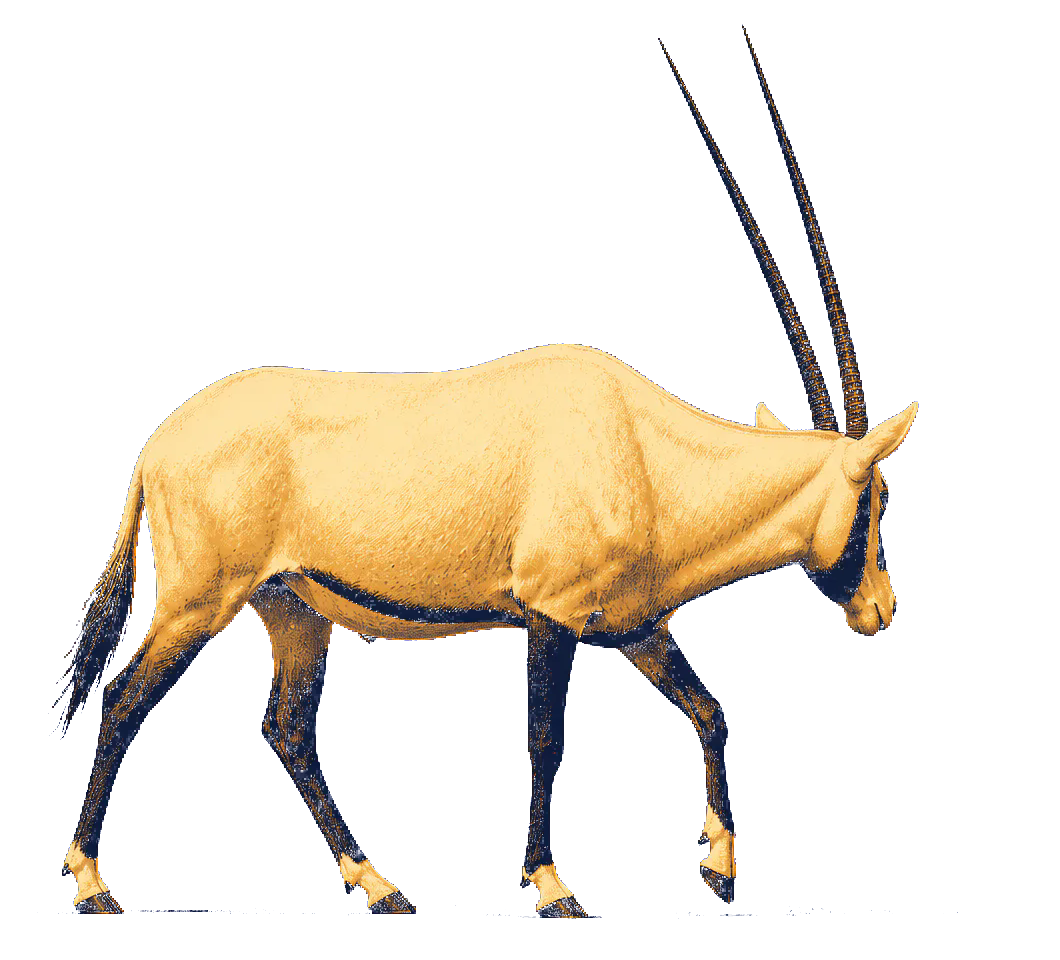
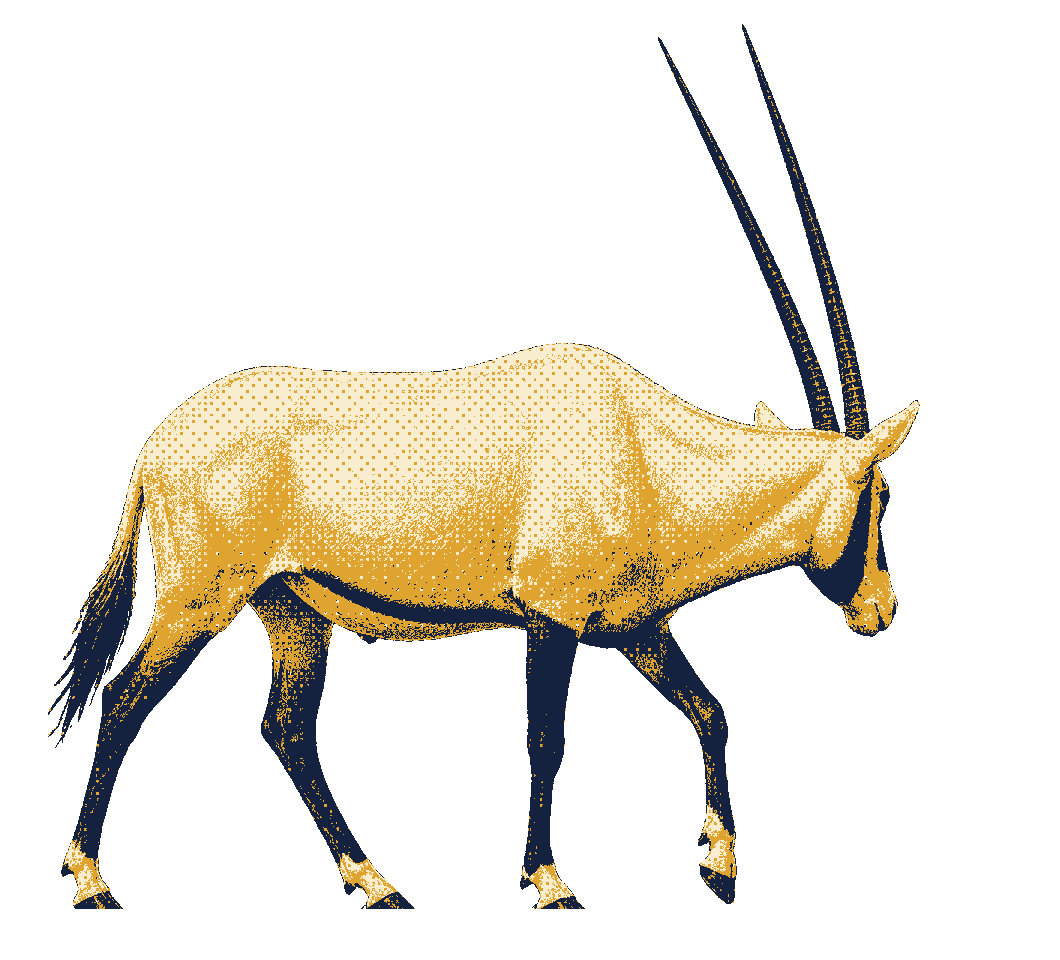
Clean cutouts and rotate dither styles

diff --git a/src/main.ts b/src/main.ts
@@ -70,6 +70,7 @@ let currentScene = Math.min(
 let switchTimer = 0;
 let pointerFrame = 0;
 let sceneRequest = 0;
+let sceneDeck: number[] = [];
 
 function rememberScene(index: number): void {
   try { sessionStorage.setItem("actual-scene", String(index)); } catch {}
@@ -119,18 +120,30 @@ function renderScene(index: number, initial = false): void {
   });
 }
 
-function randomScene(exclude: number): number {
-  const choices = scenes.map((_, index) => index).filter((index) => index !== exclude);
+function randomIndex(length: number): number {
   if (window.crypto?.getRandomValues) {
     const entropy = new Uint32Array(1);
     window.crypto.getRandomValues(entropy);
-    return choices[entropy[0] % choices.length];
+    return entropy[0] % length;
   }
-  return choices[Math.floor(Math.random() * choices.length)];
+  return Math.floor(Math.random() * length);
+}
+
+function refillSceneDeck(exclude: number): void {
+  sceneDeck = scenes.map((_, index) => index).filter((index) => index !== exclude);
+  for (let index = sceneDeck.length - 1; index > 0; index -= 1) {
+    const swap = randomIndex(index + 1);
+    [sceneDeck[index], sceneDeck[swap]] = [sceneDeck[swap], sceneDeck[index]];
+  }
+}
+
+function nextScene(): number {
+  if (sceneDeck.length === 0) refillSceneDeck(currentScene);
+  return sceneDeck.shift() ?? currentScene;
 }
 
 sceneControl.addEventListener("click", () => {
-  renderScene(randomScene(currentScene));
+  renderScene(nextScene());
 });
 
 window.addEventListener("pointermove", (event) => {
